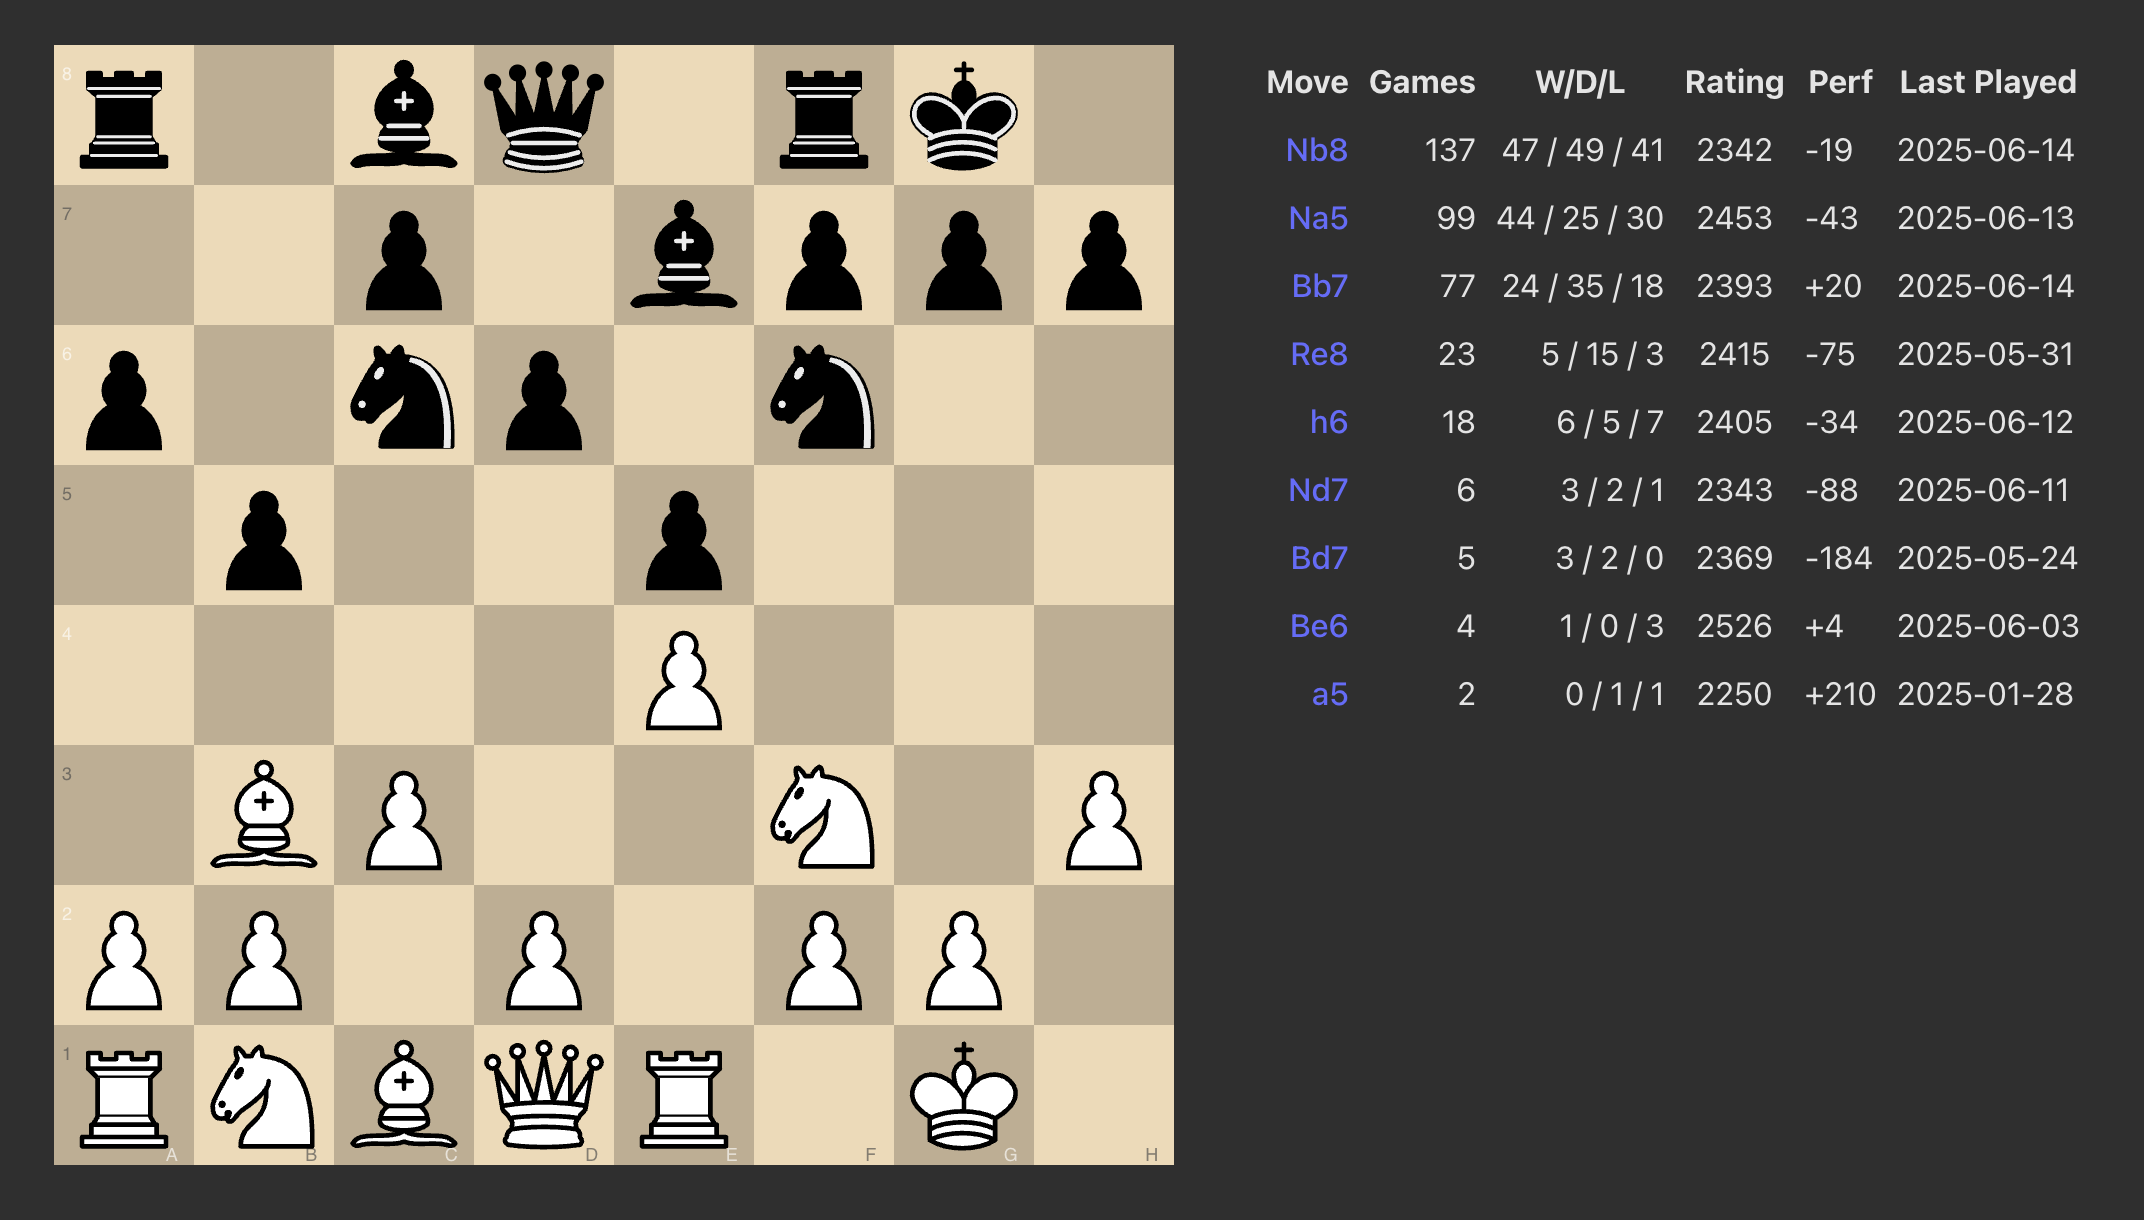
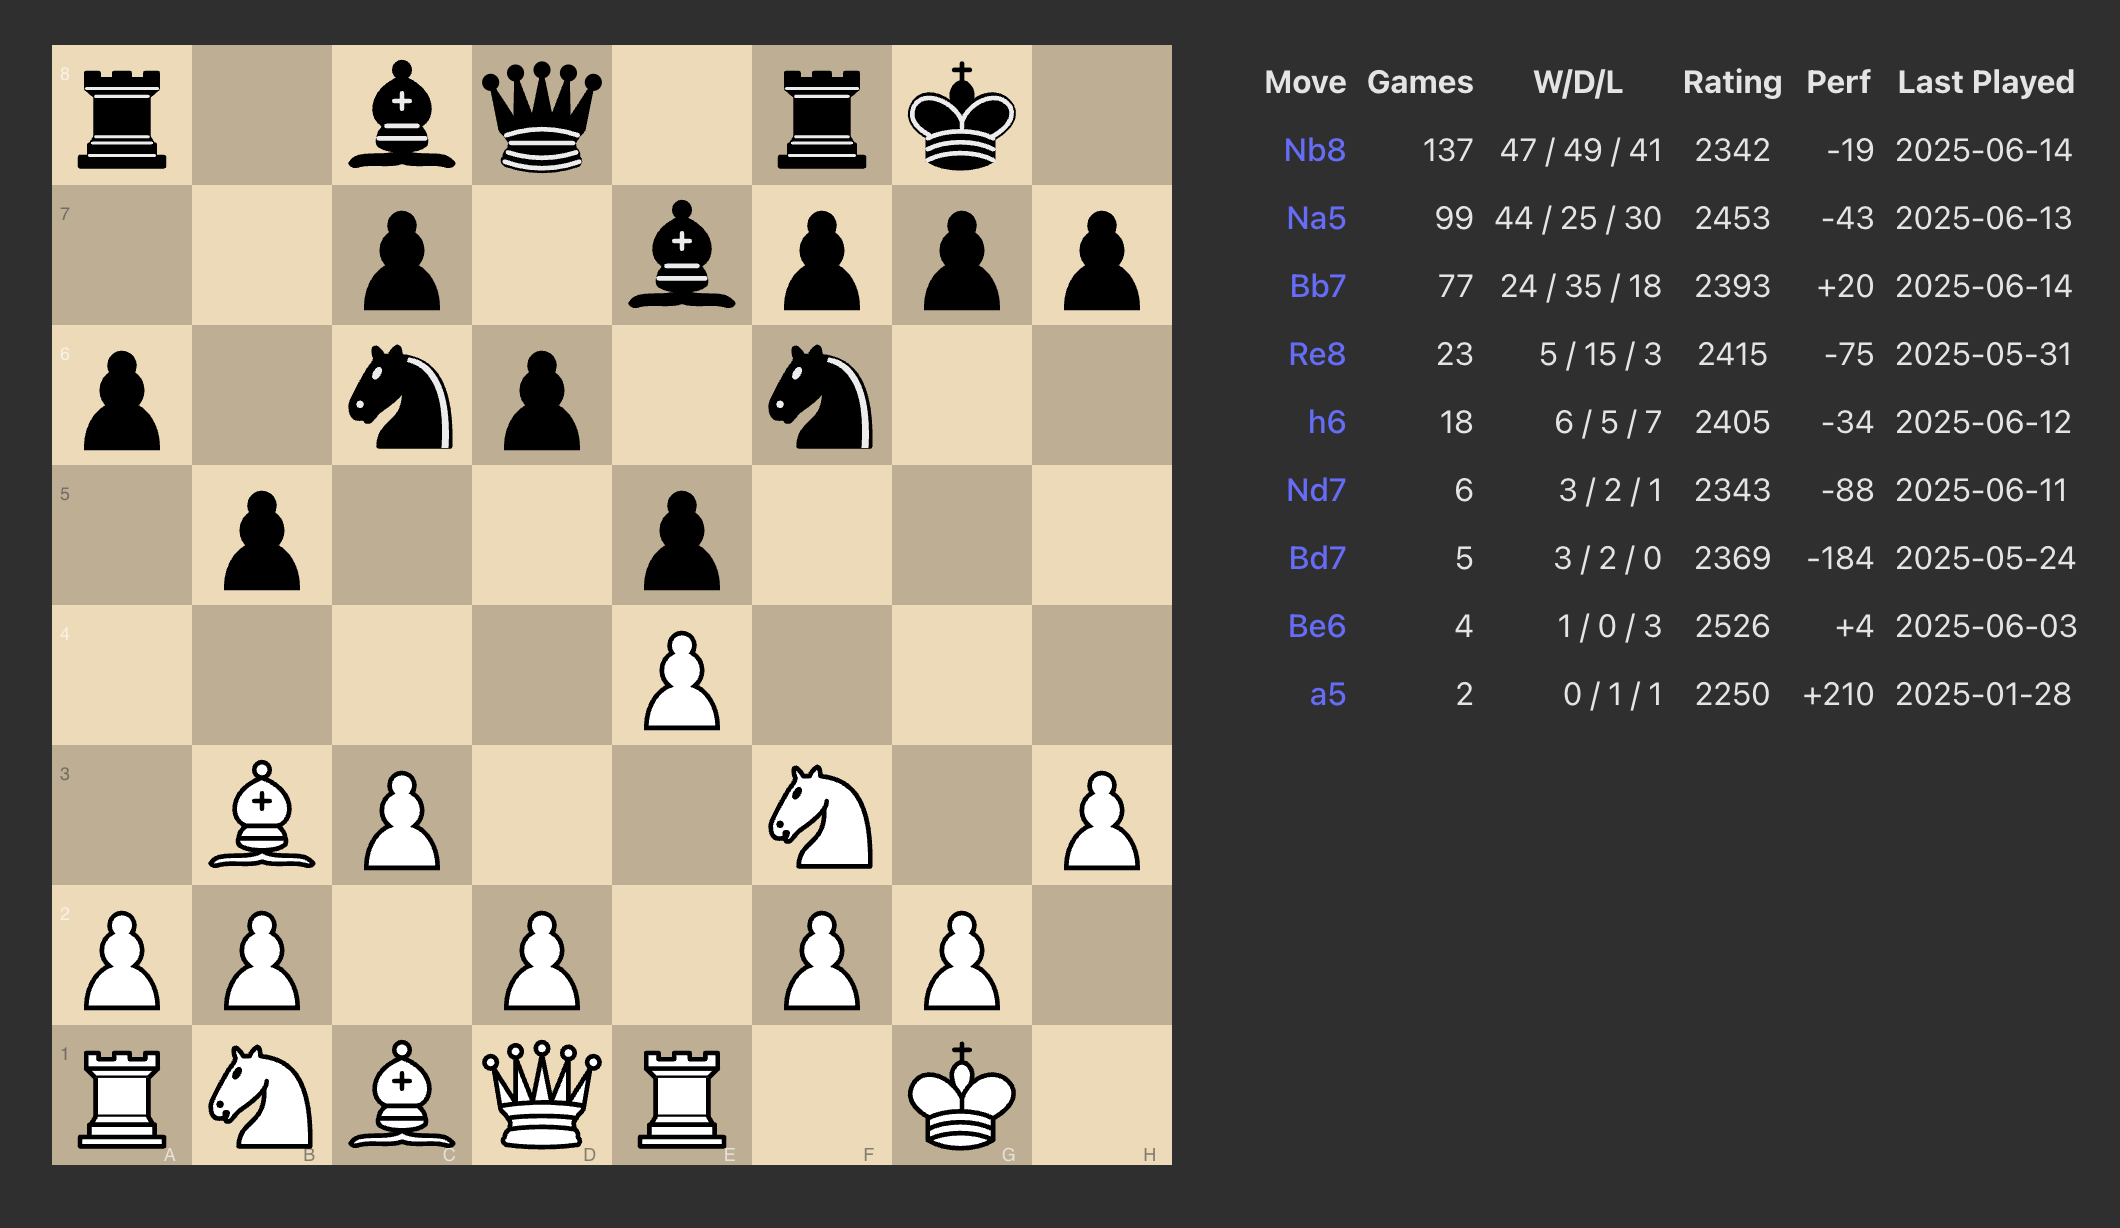
right-align performance.

diff --git a/src/features/opening-trees/components/PositionTable.tsx b/src/features/opening-trees/components/PositionTable.tsx
@@ -31,7 +31,7 @@ export const PositionTable = ({ treePos, onSelectMove }: PositionTableProps) => 
               {move.whiteWins} / {move.draws} / {move.blackWins}
             </td>
             <td align="center">{move.rating}</td>
-            <td>
+            <td align="right">
               {move.performance > move.rating && '+'}
               {move.performance - move.rating}
             </td>
